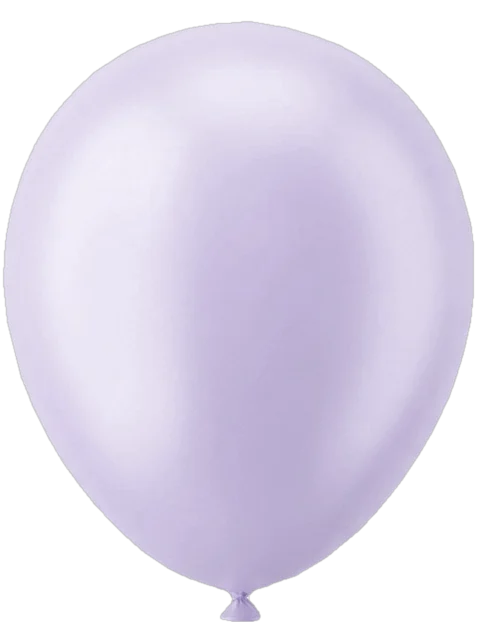
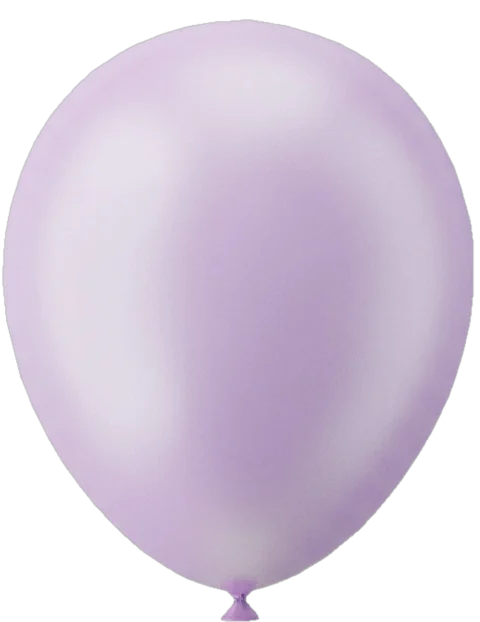
美式戶外派對：背景換成後院帳篷婚宴，補上真的 lilac 與新的 sky 氣球
開場氣球飛走後露出來的、大廳 hero 用的背景，從野生山谷草原（meadow.webp）
換成 AI 生成的美式後院婚宴（tent.webp）：白色尖頂帳篷、長桌、三角旗、串燈、
穀倉與農舍，上半部留天空給名字。
lilac 換成真的生成圖（原本是 blush 轉色相暫代），另外多一顆粉藍 sky
（還沒排進開場的配色）。黑底的兩張依亮度扣，邊多收一點、暗面提亮一點。

Claude-Session: https://claude.ai/code/session_01BPHAb7uTpasLPNGho3LpZi

diff --git a/public/css/lobby-party.css b/public/css/lobby-party.css
@@ -4,14 +4,14 @@
    疊在 common.css ＋ index.css 之後。結構主張：**一場在草地上的婚禮派對**。
 
      世界觀  開場是滿滿一畫面的氣球，放開之後升空，露出底下的藍天、綠地與遠山；
-             hero 就是那片草原（草地上擺著野餐），往下捲是派對現場的各個角落
+             hero 就是那片帳篷草坪（草地上擺著野餐），往下捲是派對現場的各個角落
      材質    陽光下的白帆布、野餐格紋、牛皮紙、字母板的黑絨布與木框、
              拍立得、入場券、彩色紙屑
      圖像    一顆一顆霧面的粉彩氣球、野餐籃、雛菊、琺瑯杯、老銀餐具、野花、三角旗、
              綁著一束氣球的「Just Married」小貨車、串燈、煙火（照片都是去背的真實素材）
 
    捲動：
-     ・hero：草原往下捲時慢慢往上退，幾束氣球一直往上飄
+     ・hero：背景往下捲時慢慢往上退，幾束氣球一直往上飄
      ・三角旗捲到時一面一面翻下來（data-reveal="flags"）
      ・野花那一瓶彈出來（pop）；卡片後面的野花長出來、在風裡輕輕擺（grow）；
        小貨車從右邊開進來（drive）
@@ -66,8 +66,8 @@ body[data-lobby="outdoor-party"] .bg-decor{
 ============================================================ */
 .yp-hero{position:relative;overflow:hidden;min-height:calc(100svh - var(--nav-h));padding:0;gap:0;justify-content:flex-start;
   background:#7fb6e3;}
-/* 藍天、綠地、遠山（img/party/meadow.webp，和開場同一張），往下捲時慢慢往上退 */
-.yp-sky{position:absolute;inset:0;background:url(../img/party/meadow.webp) 50% calc(62% + var(--lp,0) * 18%)/cover;}
+/* 藍天、草坪、白色帳篷（img/party/tent.webp，和開場同一張），往下捲時慢慢往上退 */
+.yp-sky{position:absolute;inset:0;background:url(../img/party/tent.webp) 50% calc(62% + var(--lp,0) * 18%)/cover;}
 
 /* 漏網的氣球：幾顆霧面粉彩的氣球（和開場同一組），各自慢慢往上飄，下面拖著一條線 */
 .yp-float{position:absolute;inset:0;pointer-events:none;z-index:2;}

diff --git a/public/css/openers/balloons.css b/public/css/openers/balloons.css
@@ -2,7 +2,7 @@
    openers/balloons.css — 開場：氣球升空（js/openers/balloons.js）
    ------------------------------------------------------------
    三層：
-     .bp-scene  底下：一片藍天、綠色草原與遠山（img/party/meadow.webp），和派對大廳的 hero 同一張
+     .bp-scene  底下：美式後院婚宴：草坪上一頂白色尖頂帳篷、長桌、串燈，後面是穀倉和白色農舍（img/party/tent.webp），和派對大廳的 hero 同一張
      .bp-text   名字，浮在天空上（氣球飛走之後才出來）
      .bp-crowd  滿滿的氣球；每一顆三層 div：
                   .bp-b     位置與大小（JS 排的）；.is-far / .is-mid / .is-near 是遠中近三層
@@ -11,9 +11,9 @@
    只動 transform 與 opacity，一次一百多顆也順。
 ============================================================ */
 .bp-host{background:#8fc0e8;cursor:pointer;}
-/* 藍天、綠地、遠山（img/party/meadow.webp） */
-.bp-scene{position:absolute;inset:0;background:url(../../img/party/meadow.webp) 50% 62%/cover;}
-/* 草原在氣球後面慢慢拉遠一點 */
+/* 藍天、草坪、白色帳篷（img/party/tent.webp） */
+.bp-scene{position:absolute;inset:0;background:url(../../img/party/tent.webp) 50% 62%/cover;}
+/* 背景在氣球後面慢慢拉遠一點 */
 .bp-scene{transform:scale(1.1);transition:transform 6.5s cubic-bezier(.2,.7,.2,1);}
 .bp-host.is-up .bp-scene{transform:none;}
 
@@ -58,10 +58,10 @@
 .bp-skip{position:absolute;right:18px;bottom:16px;z-index:100000;font-size:12px;letter-spacing:.24em;color:rgba(31,48,73,.6);
   padding:6px 12px;border-radius:999px;background:rgba(255,255,255,.7);pointer-events:none;}
 
-/* 收尾：整片淡掉（大廳的 hero 是同一片草原） */
+/* 收尾：整片淡掉（大廳的 hero 是同一張） */
 .bp-host.is-leaving{opacity:0;transition:opacity 1s ease;}
 
-/* 減少動態：沒有氣球，直接是草原與名字 */
+/* 減少動態：沒有氣球，直接是帳篷草坪與名字 */
 .bp-host.is-still .bp-crowd{display:none;}
 .bp-host.is-still .bp-scene{transform:none;}
 .bp-host.is-still .bp-text > *{opacity:1;transform:none;}

diff --git a/public/lobby-party.html b/public/lobby-party.html
@@ -27,7 +27,7 @@
 <link rel="preload" as="script" href="/js/common.js">
 <link rel="preload" as="script" href="/js/lobby-motion.js">
 <link rel="preload" as="script" href="/js/index.js">
-<link rel="preload" as="image" href="/img/party/meadow.webp" type="image/webp">
+<link rel="preload" as="image" href="/img/party/tent.webp" type="image/webp">
 <link rel="preconnect" href="https://fonts.googleapis.com">
 <link rel="preconnect" href="https://fonts.gstatic.com" crossorigin>
 <!-- 字體依版型不同，由 build-og（預產）或 site-context.js（執行期）依 TEMPLATES[x].fonts 補上 -->
@@ -81,8 +81,8 @@
 <button class="intro-skip" id="introSkip" type="button" hidden>跳過</button>
 
 <!-- ============ 主畫面：一場在草地上的美式婚禮派對 ============
-     開場是滿滿一畫面的氣球，一顆一顆各自升空，露出底下的草原 —— 所以 hero 就是那一片草原：
-     藍天、綠地、遠山（img/party/meadow.webp，和開場同一張），草地上擺著野餐：
+     開場是滿滿一畫面的氣球，一顆一顆各自升空，露出底下的後院婚宴 —— 所以 hero 就是那一張：
+     藍天下的後院婚宴：草坪上一頂白色尖頂帳篷、長桌與串燈（img/party/tent.webp，和開場同一張），草地上擺著野餐：
      一只籐編野餐籃、一瓶雛菊、琺瑯杯、一籃蘋果；還有幾顆漏網的霧面粉彩氣球一直慢慢往上飄。
      往下捲：資訊卡掛著三角旗、旁邊貼一張長桌派對的拍立得、卡片後面探出幾枝野花；
      流程寫在一塊字母板上，兩邊擺著老銀餐具和琺瑯杯；

diff --git a/public/js/openers/balloons.js b/public/js/openers/balloons.js
@@ -7,8 +7,8 @@
    分成遠、中、近三層：遠的小、淡一點；近的大、有一點景深的糊。每一顆都在原地輕輕晃：
 
      氣球一顆一顆各自被放開（每一顆的時間、速度、往哪邊飄都不一樣）→ 慢慢升空、越飛越快
-     → 底下露出一片藍天、綠色草原與遠山（img/party/meadow.webp）
-     → 名字浮在天空上 → 溶進網站（美式戶外派對的首頁 hero 就是同一片草原）
+     → 底下露出藍天下的後院婚宴：草坪、白色尖頂帳篷、長桌與串燈（img/party/tent.webp）
+     → 名字浮在天空上 → 溶進網站（美式戶外派對的首頁 hero 就是同一張）
 
    自己演完就進站（fn.auto），點畫面任何地方可以跳過。
    氣球是依照當下視窗大小排出來的（手機直立、桌機橫向都塞得滿），
@@ -16,7 +16,7 @@
 ============================================================ */
 (function () {
   const T_RELEASE = 1200;   /* 開始放氣球 */
-  const T_REVEAL = 6200;    /* 草原露出來、名字也出來了，開始溶進網站 */
+  const T_REVEAL = 6200;    /* 帳篷草坪露出來、名字也出來了，開始溶進網站 */
   const T_DONE = 7200;
 
   const LM = window.LobbyMotion;

diff --git a/preview/outdoor-party.html b/preview/outdoor-party.html
@@ -72,8 +72,8 @@
 <button class="intro-skip" id="introSkip" type="button" hidden>跳過</button>
 
 <!-- ============ 主畫面：一場在草地上的美式婚禮派對 ============
-     開場是滿滿一畫面的氣球，一顆一顆各自升空，露出底下的草原 —— 所以 hero 就是那一片草原：
-     藍天、綠地、遠山（img/party/meadow.webp，和開場同一張），草地上擺著野餐：
+     開場是滿滿一畫面的氣球，一顆一顆各自升空，露出底下的後院婚宴 —— 所以 hero 就是那一張：
+     藍天下的後院婚宴：草坪上一頂白色尖頂帳篷、長桌與串燈（img/party/tent.webp，和開場同一張），草地上擺著野餐：
      一只籐編野餐籃、一瓶雛菊、琺瑯杯、一籃蘋果；還有幾顆漏網的霧面粉彩氣球一直慢慢往上飄。
      往下捲：資訊卡掛著三角旗、旁邊貼一張長桌派對的拍立得、卡片後面探出幾枝野花；
      流程寫在一塊字母板上，兩邊擺著老銀餐具和琺瑯杯；

diff --git a/README.md b/README.md
@@ -386,8 +386,8 @@ HTML 裡直接寫 `{{couple}}`、`{{date}}`、`{{hashtag}}` 這類 token，
 >
 > | 檔案 | 用在哪裡 | 原圖 | 怎麼處理的 |
 > |---|---|---|---|
-> | `meadow.webp` | 開場氣球飛走後露出來的那片、大廳 hero | [藍天下的綠色草原與遠山](https://unsplash.com/photos/ZAy8srF4rRM)・Angela Loria | 縮圖 |
-> | `balloon-*.webp`（white、blush、peach、butter、mint、lilac） | 開場滿滿的氣球、hero 漏網的氣球、小貨車上綁的三顆 | AI 生成（不是 Unsplash）：同一顆 12 吋霧面乳膠氣球、同一個角度與光線，一個顏色一張 | 原圖是把棋盤格畫進去的 JPG，依顏色飽和度扣出氣球；氣球本體取凸包、五張投票出同一個外框（亮面不會被當成背景咬掉），結另外保留；邊往內收 2px 去掉棋盤格殘邊。放在 480×622（＝300:389）的透明底上，結貼著底邊正中（線用 SVG／CSS 另外畫）。lilac 還沒有生成，暫時是 blush 轉色相做的 |
+> | `tent.webp` | 開場氣球飛走後露出來的那片、大廳 hero | AI 生成（不是 Unsplash）：美式後院婚宴，草坪上一頂白色尖頂帳篷、長桌與白色折疊椅、三角旗、串燈，後面是紅色穀倉與白色農舍，上半部留天空給名字 | 原尺寸 1264×848 轉 webp |
+> | `balloon-*.webp`（white、blush、peach、butter、mint、lilac、sky） | 開場滿滿的氣球、hero 漏網的氣球、小貨車上綁的三顆 | AI 生成（不是 Unsplash）：同一顆 12 吋霧面乳膠氣球、同一個角度與光線，一個顏色一張 | white～mint 原圖是把棋盤格畫進去的 JPG，依顏色飽和度扣出氣球；lilac、sky 是黑底，依亮度扣，邊多收 2px 去掉黑邊、暗面提亮一點跟其他顆一致。氣球本體取凸包、五張投票出同一個外框（亮面不會被當成背景咬掉），結各自保留；邊往內收 2px 去掉殘邊。放在 480×622（＝300:389）的透明底上，結貼著底邊正中（線用 SVG／CSS 另外畫） |
 > | `truck.webp` | 交通資訊的小貨車 | [米白色的老福特 F-100](https://unsplash.com/photos/YE3vIwURtY8)・Danny Greenberg | 去背（isnet），手動清掉車斗後面的磚牆與鐵窗、車頭旁的樹枝與地上的影子，車窗裡透出去的磚牆換成淡淡的玻璃反光 |
 > | `basket.webp` | hero 草地上的籐籃、R.S.V.P. 旁的野餐籃 | [野餐墊上的籐編野餐籃](https://unsplash.com/photos/5zqM9t-4BLc)・Eugenia Pan'kiv | 去背 |
 > | `apples.webp` | hero 草地上的一籃蘋果 | [一籃紅蘋果](https://unsplash.com/photos/4Bj27zMqNSE)・Vera De | 去背 |
@@ -509,7 +509,7 @@ HTML 裡直接寫 `{{couple}}`、`{{date}}`、`{{hashtag}}` 這類 token，
 > 圖載不到的時候，同一個場景會退回程式畫的那一幅（先用色塊打底稿，再取色疊幾萬筆短筆觸，固定種子）。
 > 因為大廳的畫要靠這一支，這個版型的 `lobbyJs` 也掛了 painting.js —— 換成別種開場，大廳的畫照樣在。
 >
-> **派對的氣球**：開場的氣球是一顆一顆的（AI 生成的霧面乳膠氣球，六種粉彩各一張、外框一模一樣），`js/openers/balloons.js` 依當下的視窗大小排成遠、中、近三層，每一顆各自的放開時間、速度與飄的方向都不一樣
+> **派對的氣球**：開場的氣球是一顆一顆的（AI 生成的霧面乳膠氣球，粉彩各一張、外框一模一樣），`js/openers/balloons.js` 依當下的視窗大小排成遠、中、近三層，每一顆各自的放開時間、速度與飄的方向都不一樣
 > （遠的小、淡，近的大、有一點景深的糊），亂數有固定種子，每一次打開都是同一批。
 
 ---
